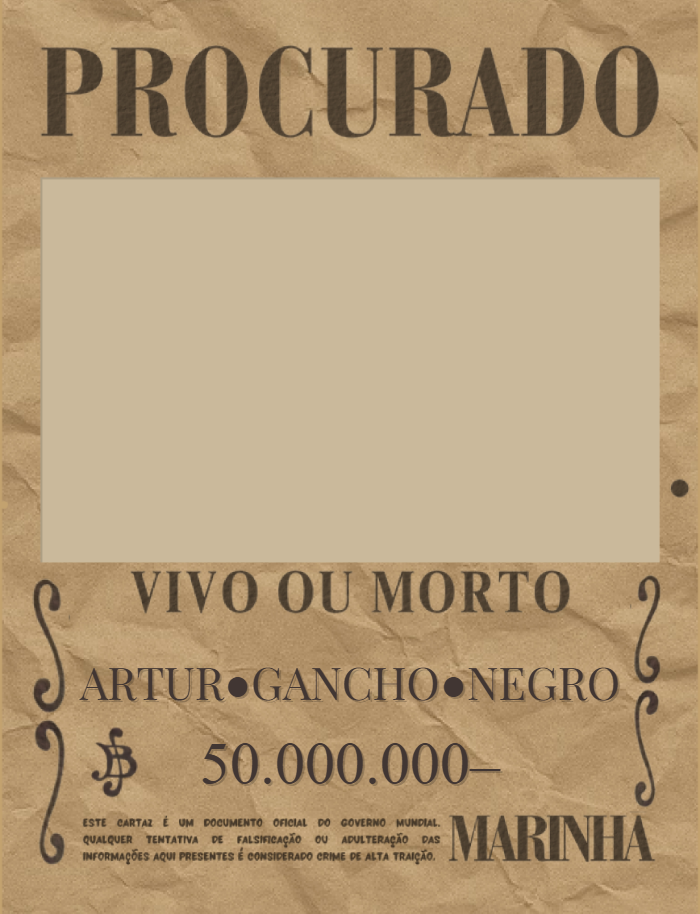
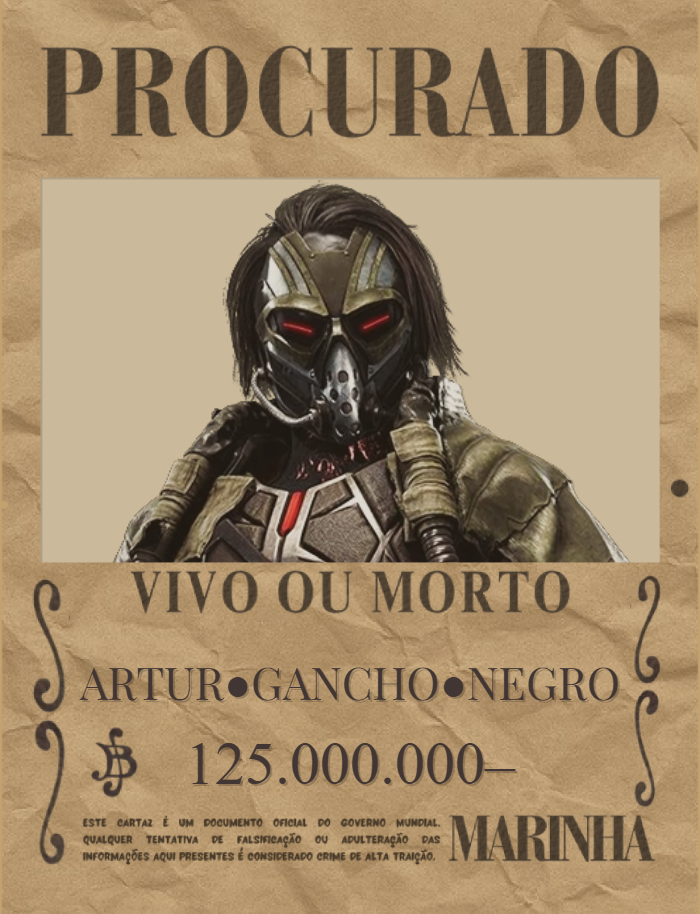
Site

Changed region(s): [[0.15, 0.1838, 0.9, 0.6433], [0.27, 0.7965, 0.69, 0.8578]]

diff --git a/aparencias.html b/aparencias.html
@@ -129,6 +129,15 @@
                     </div>
                     
                     <div class="gallery-item">
+                        <img src="assets\imagens\Personagens\Artur, o Gancho Negro.png" alt="Artur, o Gancho Negro" class="gallery-img">
+                        <div class="gallery-info">
+                            <div class="gallery-title">Artur, o Gancho Negro</div>
+                            <div class="gallery-subtitle"><a href="https://mortalkombat.fandom.com/wiki/Kabal" target="_blank">Kabal</a></div>
+                            <div class="gallery-id">NPC</div>
+                        </div>
+                    </div>
+                    
+                    <div class="gallery-item">
                         <img src="assets\imagens\Personagens\Astarion Ancunín.png" alt="Astarion Ancunín" class="gallery-img">
                         <div class="gallery-info">
                             <div class="gallery-title">Astarion Ancunín</div>
@@ -1243,15 +1252,6 @@
                         <div class="gallery-info">
                             <div class="gallery-title">???</div>
                             <div class="gallery-subtitle"><a href="https://myanimelist.net/character/40882/Eren_Yeager" target="_blank">Eren Yeager</a></div>
-                            <div class="gallery-id">NPC</div>
-                        </div>
-                    </div>
-                    
-                    <div class="gallery-item">
-                        <img src="assets\imagens\Personagens\Artur, o Gancho Negro.png" alt="Personagem Anônimo" class="gallery-img">
-                        <div class="gallery-info">
-                            <div class="gallery-title">???</div>
-                            <div class="gallery-subtitle"><a href="https://mortalkombat.fandom.com/wiki/Kabal" target="_blank">Kabal</a></div>
                             <div class="gallery-id">NPC</div>
                         </div>
                     </div>

diff --git a/cacadas.html b/cacadas.html
@@ -141,7 +141,7 @@
                         <img src="assets\imagens\Caçadas\East Blue\Cartaz 1.png" alt="Artur, o Gancho Negro" class="bounty-image">
                         <div class="bounty-info">
                             <h3 class="bounty-name">Artur, o Gancho Negro</h3>
-                            <p class="bounty-value">50.000.000</p>
+                            <p class="bounty-value">125.000.000</p>
                             <p class="bounty-location">Polestar</p>
                         </div>
                     </div>
